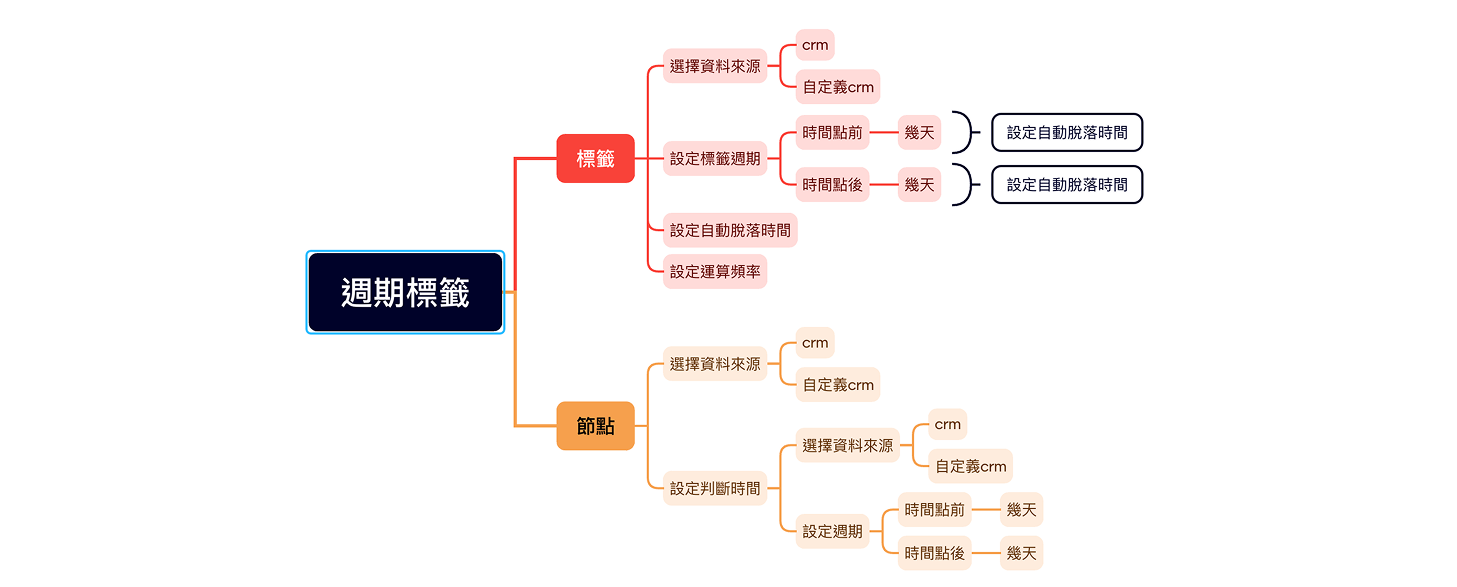
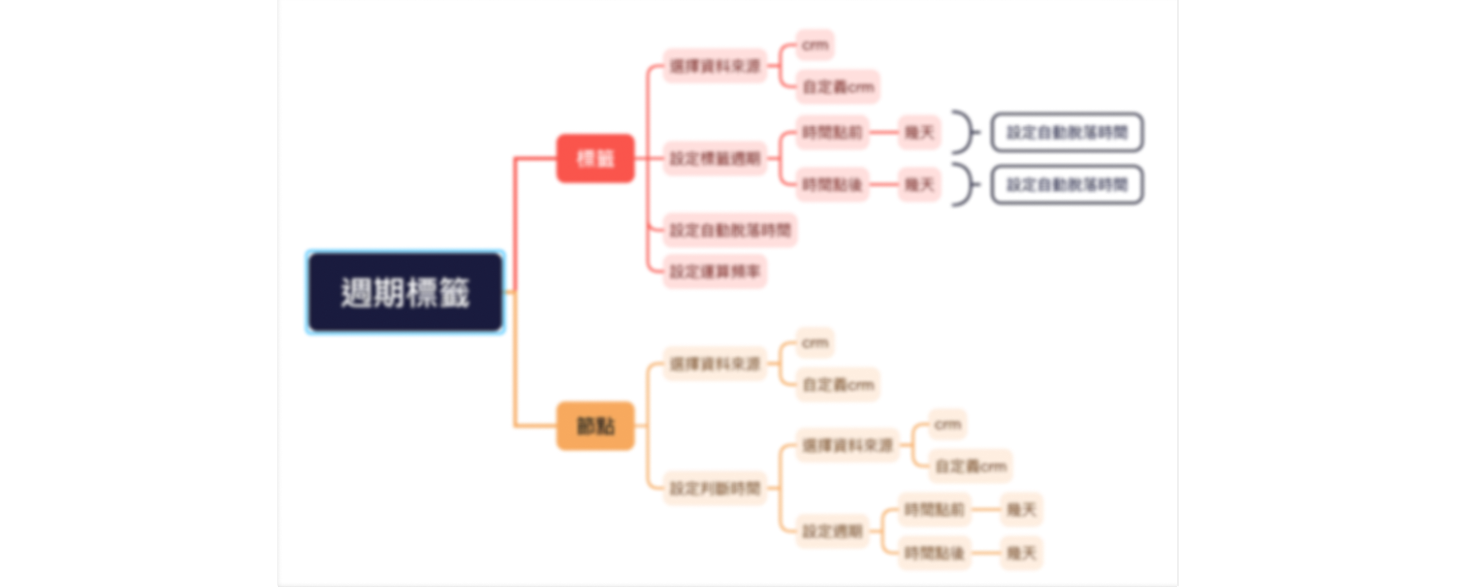
feat: 週期標籤update 260520

Changed region(s): [[0.1853, 0.0613, 0.803, 0.9506]]

diff --git a/project/work/LifecycleTag.html b/project/work/LifecycleTag.html
@@ -153,16 +153,18 @@
             </div>
         </div>
     </div>
-    <!-- 關鍵流程 -->
+    <!-- 我的切入點 -->
     <div class="container">
         <div class="row flex-sm-column mb8 mb6-md mb4-sm">
             <div class="col-2 col-sm-12 text-sm-center mb3-sm">
-                <p class="h6 text-primary">關鍵流程</p>
+                <p class="h6 text-primary">我的切入點</p>
             </div>
             <div class="col-10 col-sm-12">
-                <p class="mb2">針對PM提供的心智圖我將需求直觀拆解為：</p>
+                <p class="mb2">PM 提供的原始需求是一張資料結構圖，沒有操作流程，此需求也因找不出解法而停擺許久。<br>在我接手後我將它轉化為行銷人員可以依序完成的五個階段。</p>
                 <p class="mb2 text-primary h5">受眾取得 → 標籤建立 → 行銷執行 → 標籤轉換 → 再行銷</p>
                 <p class="mb2">並將其轉化為可持續運作的流程設計</p>
+                <p class="mb2">我聽到需求的當下，直覺把它對應到行銷人員熟悉的概念——活動。用一個活動容器把有時序關係的標籤包起來，系統就可以依據時間自動轉換標籤。
+                    這個「週期標籤群組」的框架，讓原本無法推進的功能有了可以實作的結構。</p>
                 <a href="../../images/cdp_lifecycletag/mind map.png" data-lightbox="mind-map" data-title="週期標籤需求"
                     class="component">
                     <img src="../../images/cdp_lifecycletag/mind map.png" alt="週期標籤需求">
@@ -296,7 +298,7 @@
             </div>
         </div>
     </div>
-    <!-- 學習與挑戰 -->
+    <!-- 功能價值 -->
     <div class="container mb-xl mb8-md mb5-sm">
         <div class="row flex-sm-column  mb-xl mb8-md mb5-sm">
             <div class="col-2 col-sm-12 text-sm-center mb3-sm">
@@ -308,6 +310,17 @@
                     <li class="list-style-decimal list-style-inside">在彈性與易用性之間取得平衡(操作步驟的取捨)</li>
                     <li class="list-style-decimal list-style-inside">設計可擴展的標籤結構，支援不同情境應用</li>
                 </ol>
+            </div>
+        </div>
+    </div>
+    <!-- 反思 -->
+    <div class="container mb-xl mb8-md mb5-sm">
+        <div class="row flex-sm-column  mb-xl mb8-md mb5-sm">
+            <div class="col-2 col-sm-12 text-sm-center mb3-sm">
+                <p class="h6 text-primary">反思</p>
+            </div>
+            <div class="col-10 col-sm-12">
+                <p class="mb2">功能上線後，客戶在設定上層遇到困難。<br>這讓我意識到：在高複雜度的 B2B 功能裡，設計完成不等於使用者成功。<br>新手引導、設定範本、操作回饋同樣重要——這是我在後續工作需補上的能力。</p>
             </div>
         </div>
     </div>